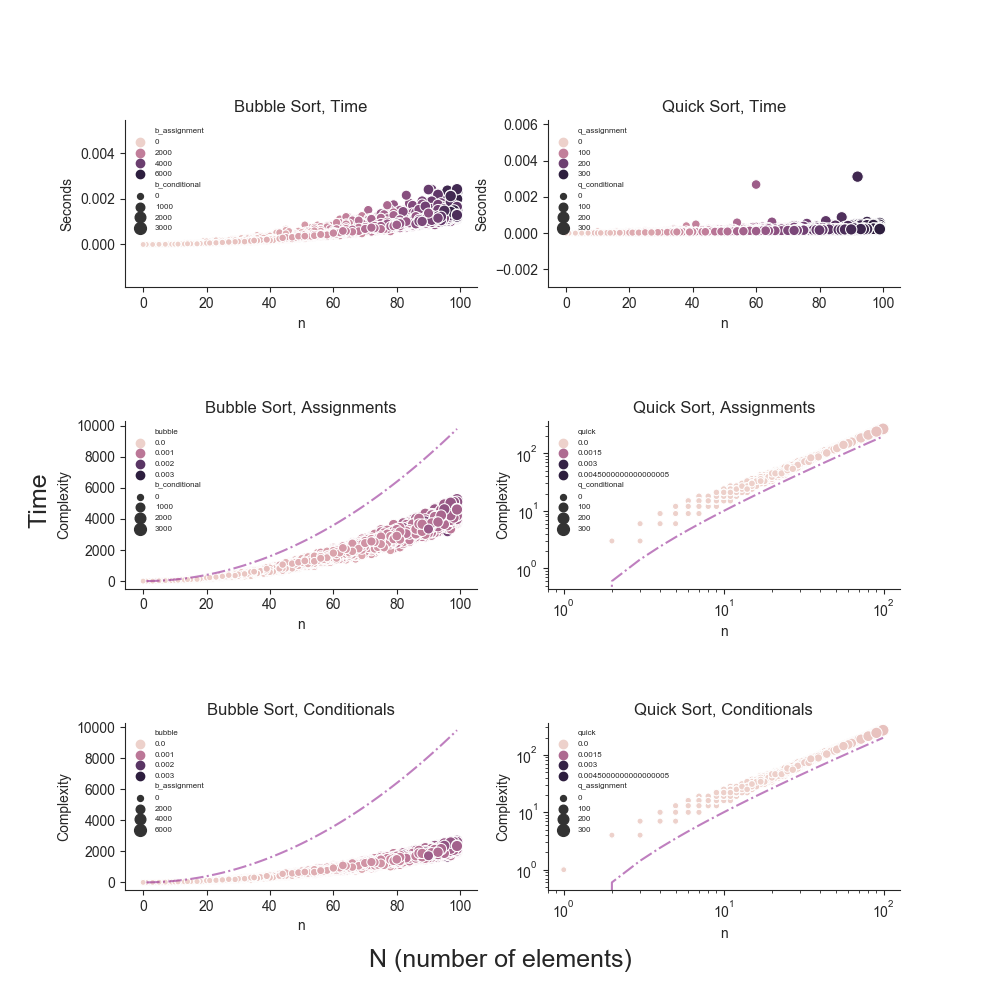
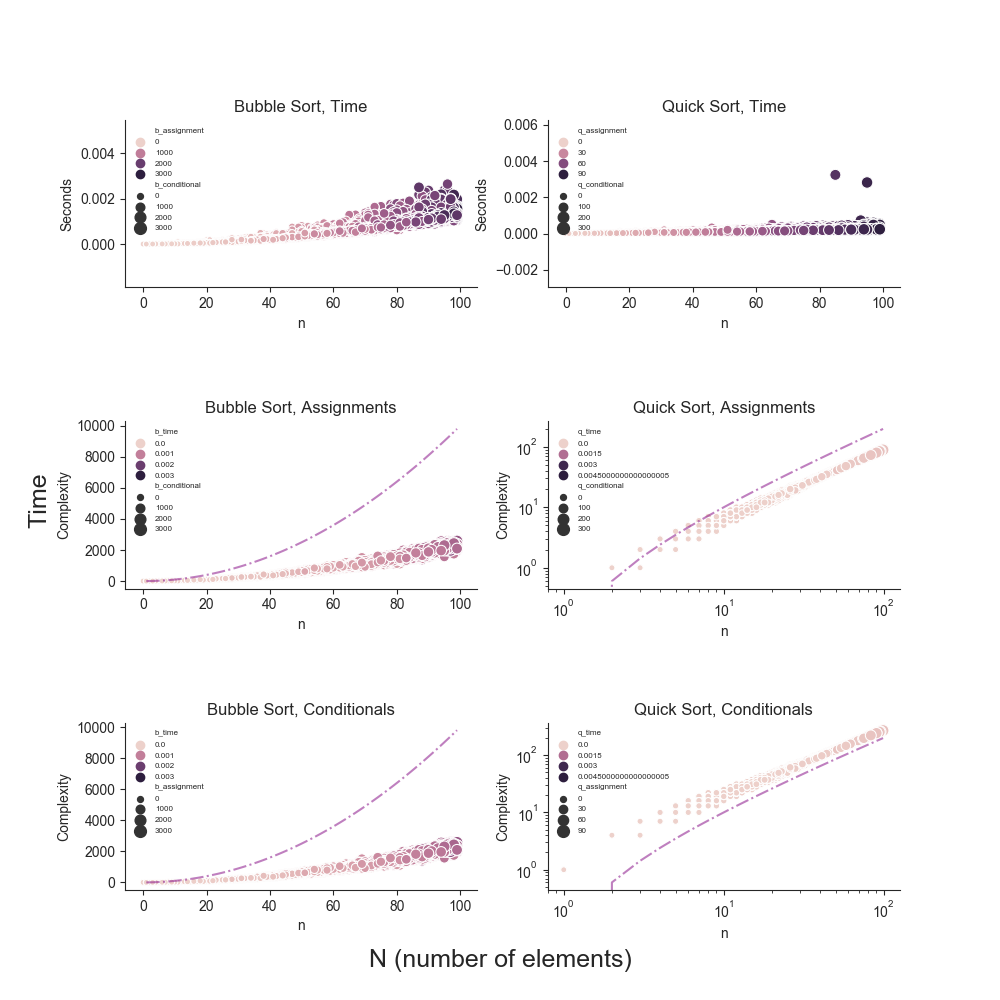
small typo on read me, fixed labels for graph

diff --git a/sort/sort_runs.py b/sort/sort_runs.py
@@ -56,7 +56,7 @@ def run_graphing(total,max,element):
         bubble_assi.append(assignments_bubble)
 
     # make data frame for out lists
-    pd_lists = pd.DataFrame(list(zip(bubble_times,quick_times,number_elements,quick_cond,quick_assi,bubble_cond,bubble_assi)),columns=['bubble','quick', 'n',"q_conditional","q_assignment","b_conditional","b_assignment"])
+    pd_lists = pd.DataFrame(list(zip(bubble_times,quick_times,number_elements,quick_cond,quick_assi,bubble_cond,bubble_assi)),columns=['b_time','q_time', 'n',"q_conditional","q_assignment","b_conditional","b_assignment"])
 
     # graph formatting
     sns.set_style('ticks')
@@ -75,16 +75,16 @@ def run_graphing(total,max,element):
     ax0.ticklabel_format(style='sci')
 
     # scatter plots for actual data
-    sns.scatterplot(x="n", y="bubble", size="b_conditional", hue="b_assignment", data=pd_lists,ax=ax0)
-    sns.scatterplot(x="n", y="quick", size="q_conditional", hue="q_assignment",data=pd_lists,ax=ax1)
-    sns.scatterplot(x="n", y="b_conditional", size="b_assignment", hue="bubble", data=pd_lists,ax=ax2)
-    sns.scatterplot(x="n", y="b_assignment", size="b_conditional", hue="bubble",data=pd_lists,ax=ax3)
-    sns.scatterplot(x="n", y="q_conditional", size="q_assignment", hue="quick", data=pd_lists,ax=ax4)
-    sns.scatterplot(x="n", y="q_assignment", size="q_conditional", hue="quick",data=pd_lists,ax=ax5)
+    sns.scatterplot(x="n", y="b_time", size="b_conditional", hue="b_assignment", data=pd_lists,ax=ax0)
+    sns.scatterplot(x="n", y="q_time", size="q_conditional", hue="q_assignment",data=pd_lists,ax=ax1)
+    sns.scatterplot(x="n", y="b_conditional", size="b_assignment", hue="b_time", data=pd_lists,ax=ax2)
+    sns.scatterplot(x="n", y="b_assignment", size="b_conditional", hue="b_time",data=pd_lists,ax=ax3)
+    sns.scatterplot(x="n", y="q_conditional", size="q_assignment", hue="q_time", data=pd_lists,ax=ax4)
+    sns.scatterplot(x="n", y="q_assignment", size="q_conditional", hue="q_time",data=pd_lists,ax=ax5)
 
     # kind of sloppy line of best fit
-    # ax0.plot(np.unique(pd_lists['n']), np.poly1d(np.polyfit(pd_lists['n'],pd_lists['bubble'], 2))(np.unique(pd_lists['n'])),c='black',alpha=.5)
-    # ax1.plot(np.unique(pd_lists['n']), np.poly1d(np.polyfit(pd_lists['n'],pd_lists['quick'], 2))(np.unique(pd_lists['n'])),c='black',alpha=.5)
+    # ax0.plot(np.unique(pd_lists['n']), np.poly1d(np.polyfit(pd_lists['n'],pd_lists['b_time'], 2))(np.unique(pd_lists['n'])),c='black',alpha=.5)
+    # ax1.plot(np.unique(pd_lists['n']), np.poly1d(np.polyfit(pd_lists['n'],pd_lists['q_time'], 2))(np.unique(pd_lists['n'])),c='black',alpha=.5)
     # ax2.plot(np.unique(pd_lists['n']), np.poly1d(np.polyfit(pd_lists['n'],pd_lists['b_conditional'], 2))(np.unique(pd_lists['n'])),c='black',alpha=.5)
     # ax3.plot(np.unique(pd_lists['n']), np.poly1d(np.polyfit(pd_lists['n'],pd_lists['b_assignment'], 2))(np.unique(pd_lists['n'])),c='black',alpha=.5)
     # ax4.plot(np.unique(pd_lists['n']), np.poly1d(np.polyfit(pd_lists['n'],pd_lists['q_conditional'], 3))(np.unique(pd_lists['n'])),c='black',alpha=.5)
@@ -102,8 +102,8 @@ def run_graphing(total,max,element):
 
     # get and format the big o notation info
     x = sympy.symbols("x")
-    bubble_fit = np.polyfit(pd_lists['bubble'], pd_lists['n'], 2)
-    quick_fit = np.polyfit(pd_lists['quick'], pd_lists['n'], 1)
+    bubble_fit = np.polyfit(pd_lists['b_time'], pd_lists['n'], 2)
+    quick_fit = np.polyfit(pd_lists['q_time'], pd_lists['n'], 1)
     bubble_poly = sum(sympy.S("{:6.2f}".format(v))*x**i for i, v in enumerate(bubble_fit[::-1]))
     quick_poly = sum(sympy.S("{:6.2f}".format(v))*x**i for i, v in enumerate(quick_fit[::-1]))
     bubble_latex = sympy.printing.latex(bubble_poly)

diff --git a/README.md b/README.md
@@ -42,7 +42,7 @@ python -m pytest
 
 ![a](/images/Sorting_time_complexity.png)
 
-| Sort | Theoretical | Coefficient | N |
+| Sort | Theoretical | Coefficient | n |
 | ---------- |:----------:|:----------:|:----------:|
 | Bubble Sort | ![a](/images/nsquared.gif) | ~30000000 | ~5000 |
 | Quick Sort | ![a](/images/nlogn.gif) | ~200000 |  |
